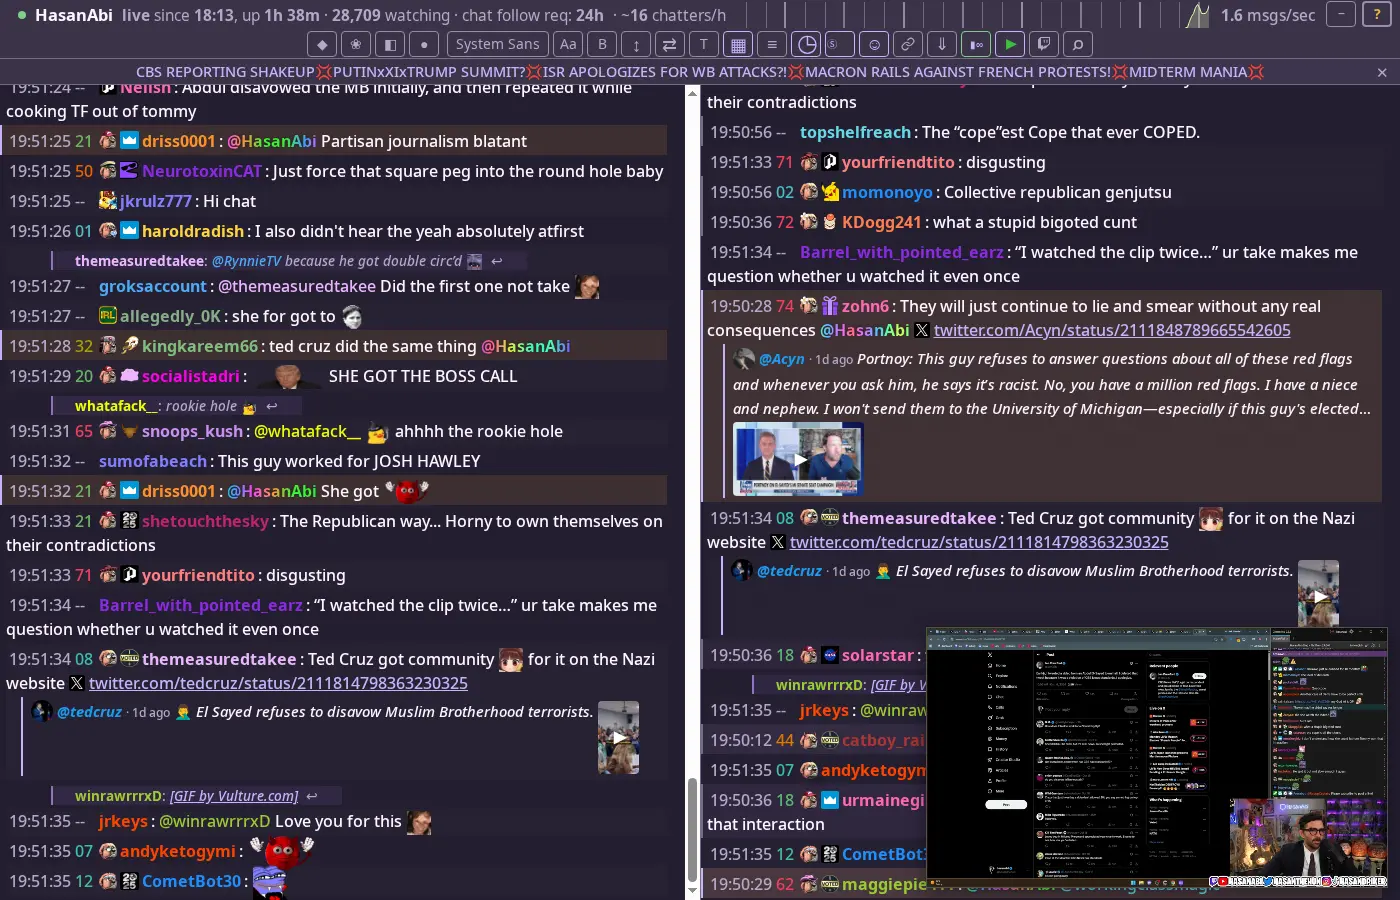
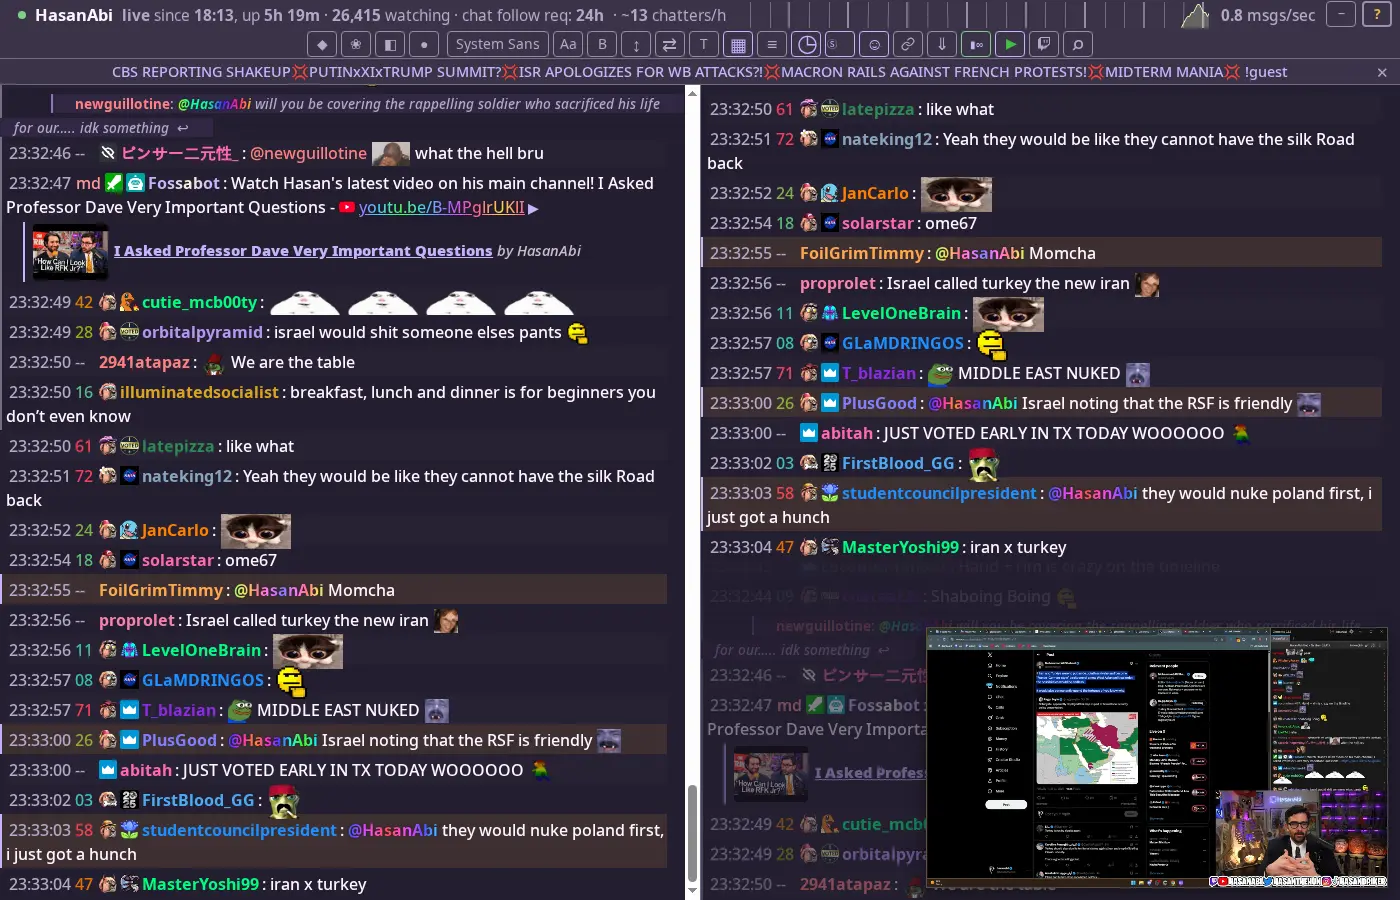
2cl: page the pane's clones with the wrap system instead of a conveyor
each full page ghosts out under the next like wrapPage on the lone
column - clones carry no scrollback, so outgoing pages drop outright

diff --git a/index.html b/index.html
@@ -751,10 +751,9 @@
   .ghostpage { position: absolute; inset: 0; box-sizing: border-box; padding: inherit;
     overflow: hidden; z-index: 5; }
   #side, #side2 { border-left: 1px solid var(--line); }
-  /* the loop pane: a conveyor of row clones held on the live edge by
-     script-pinned scrollTop - rows clipping off the top wrap back in at
-     the tail, so the ring of lines keeps cycling with no scrollbar to
-     grab (hidden overflow still scrolls programmatically) */
+  /* the loop pane: a non-scrolling seat for clones of the live lines,
+     paged by the same wrap system - full pages ghost out under the new
+     one, so overflow stays clipped rather than scrollable */
   #loop { overflow: hidden; border-left: 1px solid var(--line); }
   /* the rail: a side column holding the floating panels
      re-parented by dockRail - video up top (full width, aspect kept),
@@ -3103,7 +3102,7 @@
     <div><b>☺</b> <span>emote-only rows: <span id="helpEonlyList"></span> - messages of only emotes render them larger; cycles inline / pinned right like gif embeds / normal size<sup>†</sup></span></div>
     <div class="sep">&nbsp;</div>
     <div><b><svg viewBox="0 0 24 24" width="1em" height="1em" fill="none" stroke="currentColor" stroke-width="2.5" stroke-linecap="round" style="vertical-align: -0.15em" aria-hidden="true"><path d="M10 13a5 5 0 0 0 7.54.54l3-3a5 5 0 0 0-7.07-7.07l-1.72 1.71"/><path d="M14 11a5 5 0 0 0-7.54-.54l-3 3a5 5 0 0 0 7.07 7.07l1.71-1.71"/></svg></b> <span>links view: <span id="helpLinksList"></span> - only messages carrying a url show, and only the first post of each link<sup>†</sup></span></div>
-    <div><b id="helpSplitIcon">▮▮</b> <span class="linkcols ecfg"><i><b>layout</b> click for menu or scroll to change layout. column layouts offer a new reading experience; chat in one column lingers until the other column(s) is filled, then older chat is grayed out while the new chat overwrites it</i><i><b>1col</b><ul><li><span class="splitSeat" data-split="0"></span> one full-width chat column</li><li><span class="splitSeat" data-split="1"></span> the help popup starting centred at two-thirds of the screen</li><li><span class="splitSeat" data-split="14"></span> the stream docks in its frame over the chat column</li><li><span class="splitSeat" data-split="16"></span> the framed stream alone, centred - its edges drag their side, and any bare-floor grab pulls it wider in the dragged direction</li><li><span class="splitSeat" data-split="18"></span> the centred frame alone with danmaku bullets armed over it - the only layout that carries them, so picking another switches them back off; it defaults to the largest frame the space fits, and the same edge and floor drags resize it</li><li><span class="splitSeat" data-split="17"></span> the stream over the docked help popup, centred like 1col help - the video keeps its own width inside the page, and dragging its edges trades width with the help below - the page's side grips size the pair</li></ul></i><i><b>2col</b><ul><li><span class="splitSeat" data-split="2"></span> two chat columns - a column fills top-to-bottom, then flips to the next<sup>†</sup>; the rest of the family runs one</li><li><span class="splitSeat" data-split="20"></span> the same lines loop in a second pane - rows leaving the top wrap back in at the tail, a conveyor that keeps cycling and never scrolls</li><li><span class="splitSeat" data-split="6"></span> emotes alone - the video floats the same way</li><li><span class="splitSeat" data-split="3"></span> help docked beside one chat column</li><li><span class="splitSeat" data-split="5"></span> video + emotes</li><li><span class="splitSeat" data-split="4"></span> help docked under the video</li><li><span class="splitSeat" data-split="7"></span> a vertical split with emotes under the stats and the chat under the video</li></ul></i><i><b>3col</b><ul><li><span class="splitSeat" data-split="8"></span> a third chat column joins the cycle on a landscape screen</li><li><span class="splitSeat" data-split="11"></span> a rail layout - two chat columns plus a side rail holding the stream, the emote picker and the stats page; the line between its emotes and stats drags to resize them, and the rail's left edge drags the chat columns narrower or wider</li><li><span class="splitSeat" data-split="13"></span> emotes alone - the video stays off but the ▶ button floats it over the chat</li><li><span class="splitSeat" data-split="9"></span> help docked beside two chat columns</li><li><span class="splitSeat" data-split="12"></span> video + emotes in a slimmer rail on the same columns</li><li><span class="splitSeat" data-split="10"></span> help under the video on the rail</li><li><span class="splitSeat" data-split="15"></span> video over emotes over help on the rail</li></ul></i></span></div>
+    <div><b id="helpSplitIcon">▮▮</b> <span class="linkcols ecfg"><i><b>layout</b> click for menu or scroll to change layout. column layouts offer a new reading experience; chat in one column lingers until the other column(s) is filled, then older chat is grayed out while the new chat overwrites it</i><i><b>1col</b><ul><li><span class="splitSeat" data-split="0"></span> one full-width chat column</li><li><span class="splitSeat" data-split="1"></span> the help popup starting centred at two-thirds of the screen</li><li><span class="splitSeat" data-split="14"></span> the stream docks in its frame over the chat column</li><li><span class="splitSeat" data-split="16"></span> the framed stream alone, centred - its edges drag their side, and any bare-floor grab pulls it wider in the dragged direction</li><li><span class="splitSeat" data-split="18"></span> the centred frame alone with danmaku bullets armed over it - the only layout that carries them, so picking another switches them back off; it defaults to the largest frame the space fits, and the same edge and floor drags resize it</li><li><span class="splitSeat" data-split="17"></span> the stream over the docked help popup, centred like 1col help - the video keeps its own width inside the page, and dragging its edges trades width with the help below - the page's side grips size the pair</li></ul></i><i><b>2col</b><ul><li><span class="splitSeat" data-split="2"></span> two chat columns - a column fills top-to-bottom, then flips to the next<sup>†</sup>; the rest of the family runs one</li><li><span class="splitSeat" data-split="20"></span> the same lines loop in a second pane - each page ghosts out under the next like the wrap toggle, cycling pages without scrolling</li><li><span class="splitSeat" data-split="6"></span> emotes alone - the video floats the same way</li><li><span class="splitSeat" data-split="3"></span> help docked beside one chat column</li><li><span class="splitSeat" data-split="5"></span> video + emotes</li><li><span class="splitSeat" data-split="4"></span> help docked under the video</li><li><span class="splitSeat" data-split="7"></span> a vertical split with emotes under the stats and the chat under the video</li></ul></i><i><b>3col</b><ul><li><span class="splitSeat" data-split="8"></span> a third chat column joins the cycle on a landscape screen</li><li><span class="splitSeat" data-split="11"></span> a rail layout - two chat columns plus a side rail holding the stream, the emote picker and the stats page; the line between its emotes and stats drags to resize them, and the rail's left edge drags the chat columns narrower or wider</li><li><span class="splitSeat" data-split="13"></span> emotes alone - the video stays off but the ▶ button floats it over the chat</li><li><span class="splitSeat" data-split="9"></span> help docked beside two chat columns</li><li><span class="splitSeat" data-split="12"></span> video + emotes in a slimmer rail on the same columns</li><li><span class="splitSeat" data-split="10"></span> help under the video on the rail</li><li><span class="splitSeat" data-split="15"></span> video over emotes over help on the rail</li></ul></i></span></div>
     <div><b>▶</b> <span>stream video popup: <span id="helpVideoList"></span> - draggable, resizable, loads only when enabled<sup>†</sup></span><b></b><span>stand-in: <span id="helpVAltList"></span> - a youtube video fills the frame while the stream is down<sup>†</sup></span></div>
     <div class="sep">&nbsp;</div>
     <div><b>danmaku</b> <span>bullet chat over video: <span id="helpDanList"></span> - incoming messages stream right-to-left across the video in stacked lanes, niconico-style - a longer message flies faster, each in its sender's nick colour (size, weight, spacing and lane pitch follow the chat font settings - the face is its own opt); some bullets' emotes fly on a magnified rung, rolled per message, and animated emotes keep rolling even under the picker's freeze; under load the queue backs up and drains late rather than dropping a bullet, save a burst - a flush keeps only its newest 15 so a reload-into-fast-chat can't wall the frame; needs the video on, live messages only<sup>†</sup></span></div>
@@ -4771,6 +4770,7 @@
       resnapQueued = false;
       // page-flip columns never scroll - a late image growing a row past
       // the fold flips the spill on, or re-deals if it was an idle page
+      if (!loopEl.hidden) { loopPage(); sweepGhosts(loopEl); }
       if (isSplit() && !revFlow) { refitPages(); return; }
       if (wrapFlow && !revFlow) { wrapPage(); sweepGhosts(logEl); return; }
       if (stickBottom && !pausedCols.has(logEl)) snapLive(logEl);
@@ -13914,15 +13914,11 @@
     col.appendChild(ov);
   }
 
-  // the loop pane (level 21): a second seat for clones of the same live
-  // lines, running as a conveyor - scrollTop stays pinned to the tail,
-  // and once the pane overflows each arrival wraps the clipped head row
-  // back in at the tail, so the ring of lines keeps cycling with
-  // nothing to scroll. the ring is capped - past it a head sheds out
-  // of the loop as each wrap lands a new one in
-  const LOOP_MAX = 120;
-  const loopFull = () => loopEl.scrollHeight > loopEl.clientHeight + 2;
-  const loopPin = () => { loopEl.scrollTop = loopEl.scrollHeight; };
+  // the loop pane (level 21): clones of the live lines paged by the same
+  // wrap system the lone column can run - a page fills, ghosts out, and
+  // the new one writes down over the faded layer, so the pane cycles
+  // pages with nothing to scroll and keeps no scrollback: the outgoing
+  // page lives on in the ghost overlay, everything else drops
   function loopClone(r) {
     const cl = r.cloneNode(true);
     // the mid and ts come off: rowById replies and the row-count and
@@ -13934,28 +13930,60 @@
     cl.querySelectorAll('[id]').forEach((e) => e.removeAttribute('id'));
     return cl;
   }
-  // the wrap lands before the append so the fresh line keeps the tail;
-  // the shed removes the next-clipped head once the ring passes the
-  // cap, so a saturated loop keeps braiding old lines through the new
   function loopFeed(rows) {
-    for (const r of rows) {
-      if (loopFull()) loopEl.appendChild(loopEl.firstElementChild);
-      loopEl.appendChild(loopClone(r));
-      if (loopEl.children.length > LOOP_MAX) loopEl.firstElementChild.remove();
-    }
-    loopPin();
+    const frag = document.createDocumentFragment();
+    for (const r of rows) frag.appendChild(loopClone(r));
+    loopEl.appendChild(frag);
+    loopPage();
+    sweepGhosts(loopEl);
   }
+  // the lone column's wrapPage, minus its archive: the staying page
+  // ghosts, the fold-crossing run moves up, and a burst's unshown
+  // excess drops with the page it never displayed on
+  function loopPage() {
+    const live = liveRows(loopEl);
+    if (!live.length) return;
+    const { room, fold } = pageBox(loopEl);
+    let k = live.length;
+    for (let j = live.length - 1; j > 0; j--) {
+      if (rowCollapsed(live[j])) continue;
+      if (live[j].getBoundingClientRect().bottom <= fold + 0.5) break;
+      k = j;
+    }
+    if (k === live.length) return;
+    const staying = live.slice(0, k), moving = live.slice(k);
+    let end = null, cut = 0;
+    for (let j = moving.length - 1; j >= 0; j--) {
+      const r = moving[j];
+      if (rowCollapsed(r)) continue;
+      const rc = r.getBoundingClientRect();
+      if (end === null) { end = rc.bottom; cut = j; continue; }
+      if (end - rc.top > room) break;
+      cut = j;
+    }
+    ghostify(loopEl, staying);
+    for (const r of staying) r.remove();
+    for (let j = 0; j < cut; j++) moving[j].remove();
+  }
+  // seats the newest page of the live column as clones, cut the same
+  // way wrapDeal re-cuts its column
   function loopSeed() {
     loopEl.textContent = '';
-    loopFeed(liveRows(logEl).slice(-90));
-  }
-  // a slow ambient turn keeps the ring visibly looping through lulls
-  setInterval(() => {
-    if (splitLevel === 21 && !loopEl.hidden && !document.hidden && loopFull()) {
-      loopEl.appendChild(loopEl.firstElementChild);
-      loopPin();
+    const frag = document.createDocumentFragment();
+    for (const r of liveRows(logEl).slice(-90)) frag.appendChild(loopClone(r));
+    loopEl.appendChild(frag);
+    const { room } = pageBox(loopEl);
+    const live = liveRows(loopEl);
+    let end = null, k = 0;
+    for (let j = live.length - 1; j >= 0; j--) {
+      const r = live[j];
+      if (rowCollapsed(r)) continue;
+      const rc = r.getBoundingClientRect();
+      if (end === null) { end = rc.bottom; continue; }
+      if (end - rc.top > room) { k = j + 1; break; }
     }
-  }, 1700);
+    for (let j = 0; j < k; j++) live[j].remove();
+  }
   // Clips the overlay at the live page's bottom edge rather than dropping
   // covered clones - a removed clone reflows every one below it, which
   // reads as the old page sliding up instead of holding still under the

diff --git a/about/index.html b/about/index.html
@@ -304,7 +304,7 @@
   </div></div>
   <div class="laysec"><b>2col</b><div class="shots">
     <a href="https://hasanabi.neocities.org/?theme=midnight&split=2c"><img src="shots/split-2c.webp" alt="the 2col chat layout" loading="lazy"><span>2col chat</span></a>
-    <a href="https://hasanabi.neocities.org/?theme=nightshade&split=2cl"><img src="shots/split-2cl.webp" alt="the 2col chat loop layout - the second pane cycles the same lines" loading="lazy"><span>2col chat loop</span></a>
+    <a href="https://hasanabi.neocities.org/?theme=nightshade&split=2cl"><img src="shots/split-2cl.webp" alt="the 2col chat loop layout - the second pane pages the same lines under a fading ghost" loading="lazy"><span>2col chat loop</span></a>
     <a href="https://hasanabi.neocities.org/?theme=minimal&split=2ch"><img src="shots/split-2ch.webp" alt="the 2col chat help layout" loading="lazy"><span>2col chat help</span></a>
     <a href="https://hasanabi.neocities.org/?theme=cosy&split=2ce"><img src="shots/split-2ce.webp" alt="the 2col chat emotes layout" loading="lazy"><span>2col chat emotes</span></a>
     <a href="https://hasanabi.neocities.org/?theme=retro&split=2cve"><img src="shots/split-2cve.webp" alt="the 2col chat vid/emotes layout" loading="lazy"><span>2col chat vid/emotes</span></a>

diff --git a/README.md b/README.md
@@ -294,9 +294,9 @@ no dependencies beyond CDN-hosted fonts.
       - `2col chat | chat` (`2c`) passes older messages to a second
         chat column - a column fills top-to-bottom, then flips to the
         next; the rest of the family runs one.
-      - `2col chat | loop` (`2cl`) mirrors the same lines in a second
-        pane on a conveyor - rows leaving the top wrap back in at the
-        tail, and the ring keeps cycling with no scroll of its own.
+      - `2col chat | loop` (`2cl`) pages the same lines through a second
+        pane - each full page ghosts out under the next like the wrap
+        toggle, cycling pages with no scroll of its own.
       - `2col chat | emotes` (`2ce`) puts chat beside the emote picker.
         Video starts off; `▶` can float it over the chat.
       - `2col chat | help` (`2ch`) docks the help popup in the rail
